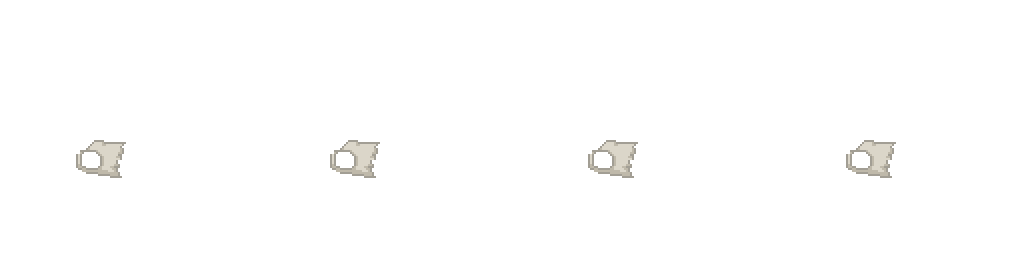
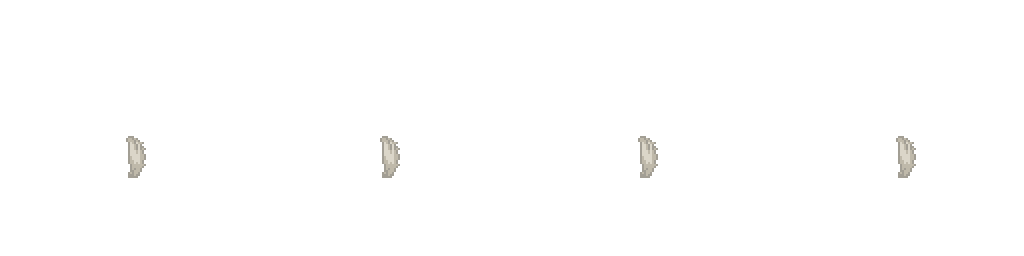
Changes bleh

diff --git a/game/03-JavaScript/05-renderer/20-canvasmodel-combat-pc.js b/game/03-JavaScript/05-renderer/20-canvasmodel-combat-pc.js
@@ -92,12 +92,6 @@ class PlayerCanvasHelper {
 					return false;
 				}
 				if (clothes.renderStep == null) {
-					Errors.report("No step provided in clothing object", {
-						slot,
-						layer,
-						isAccessory,
-						name: clothes.name,
-					});
 					return false;
 				}
 				const step = ClothingRendererStep.instances[clothes.renderStep];

diff --git a/game/base-clothing/clothing-upper.js b/game/base-clothing/clothing-upper.js
@@ -3854,7 +3854,7 @@ function initUpper() {
 			accessory_colour: 0,
 			accessory_colour_options: [],
 			sleeve_img: 0,
-			breast_img: 0,
+			breast_img: 1,
 			cursed: 0,
 			location: 0,
 			iconFile: "rag_top.png",
